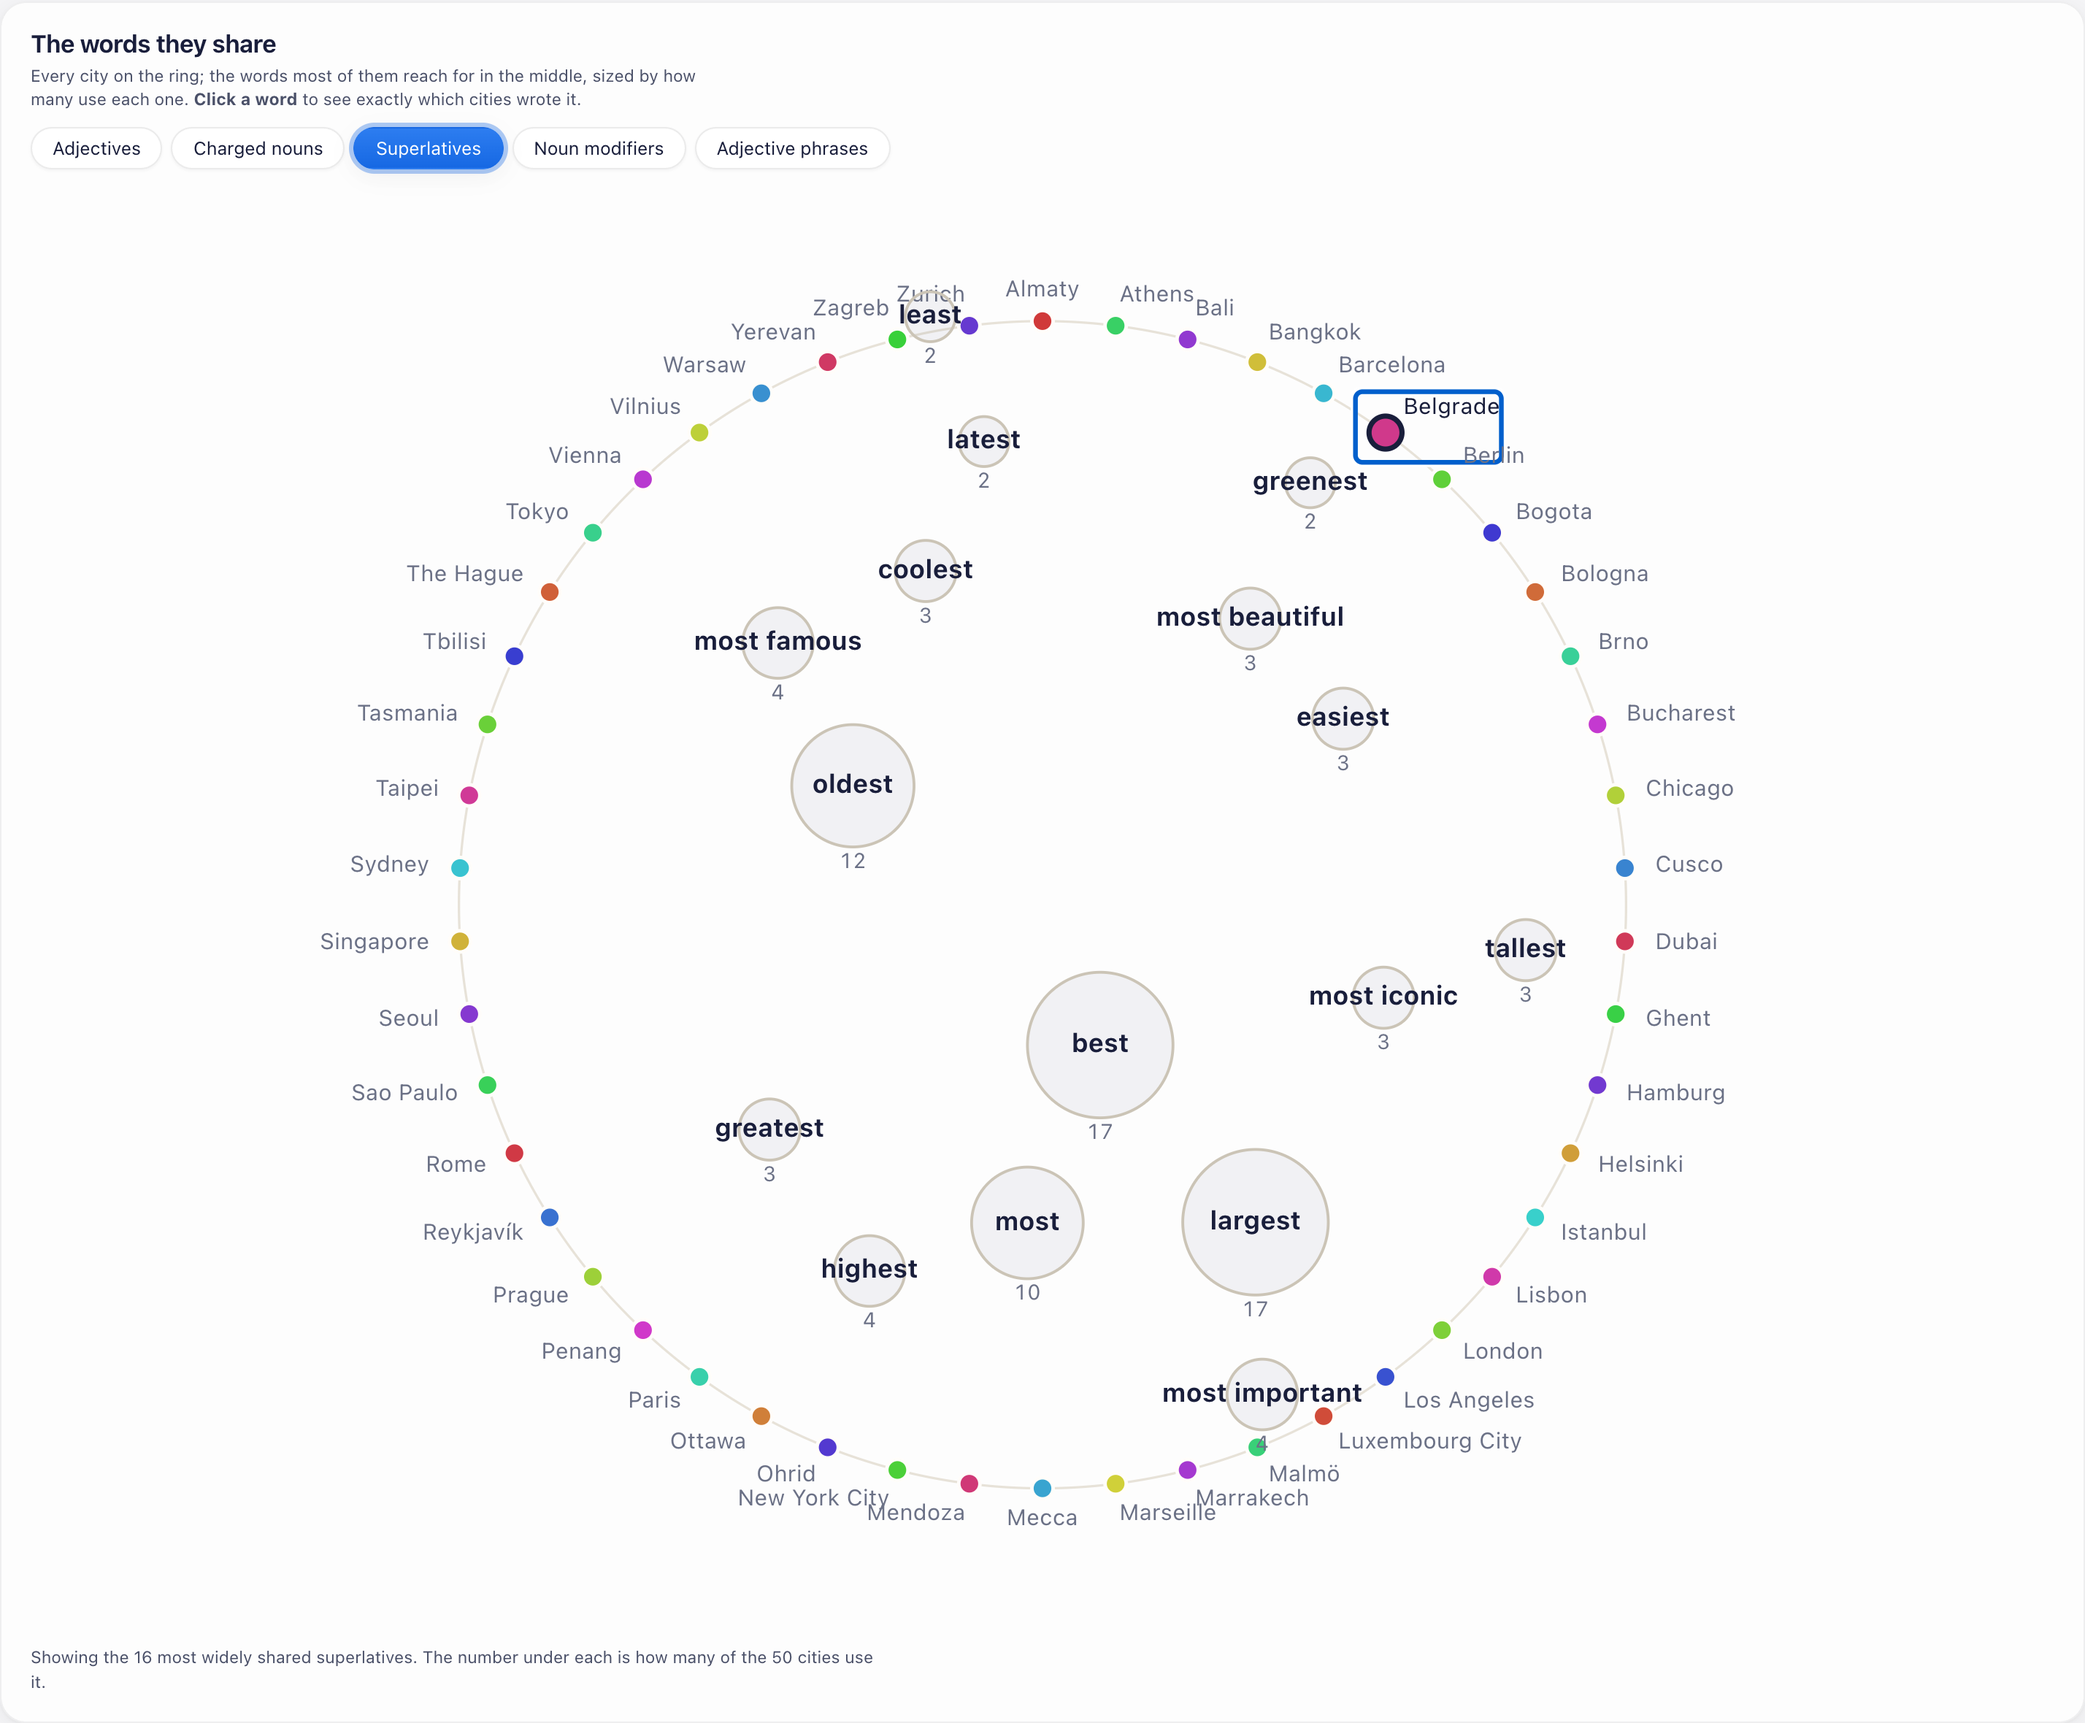
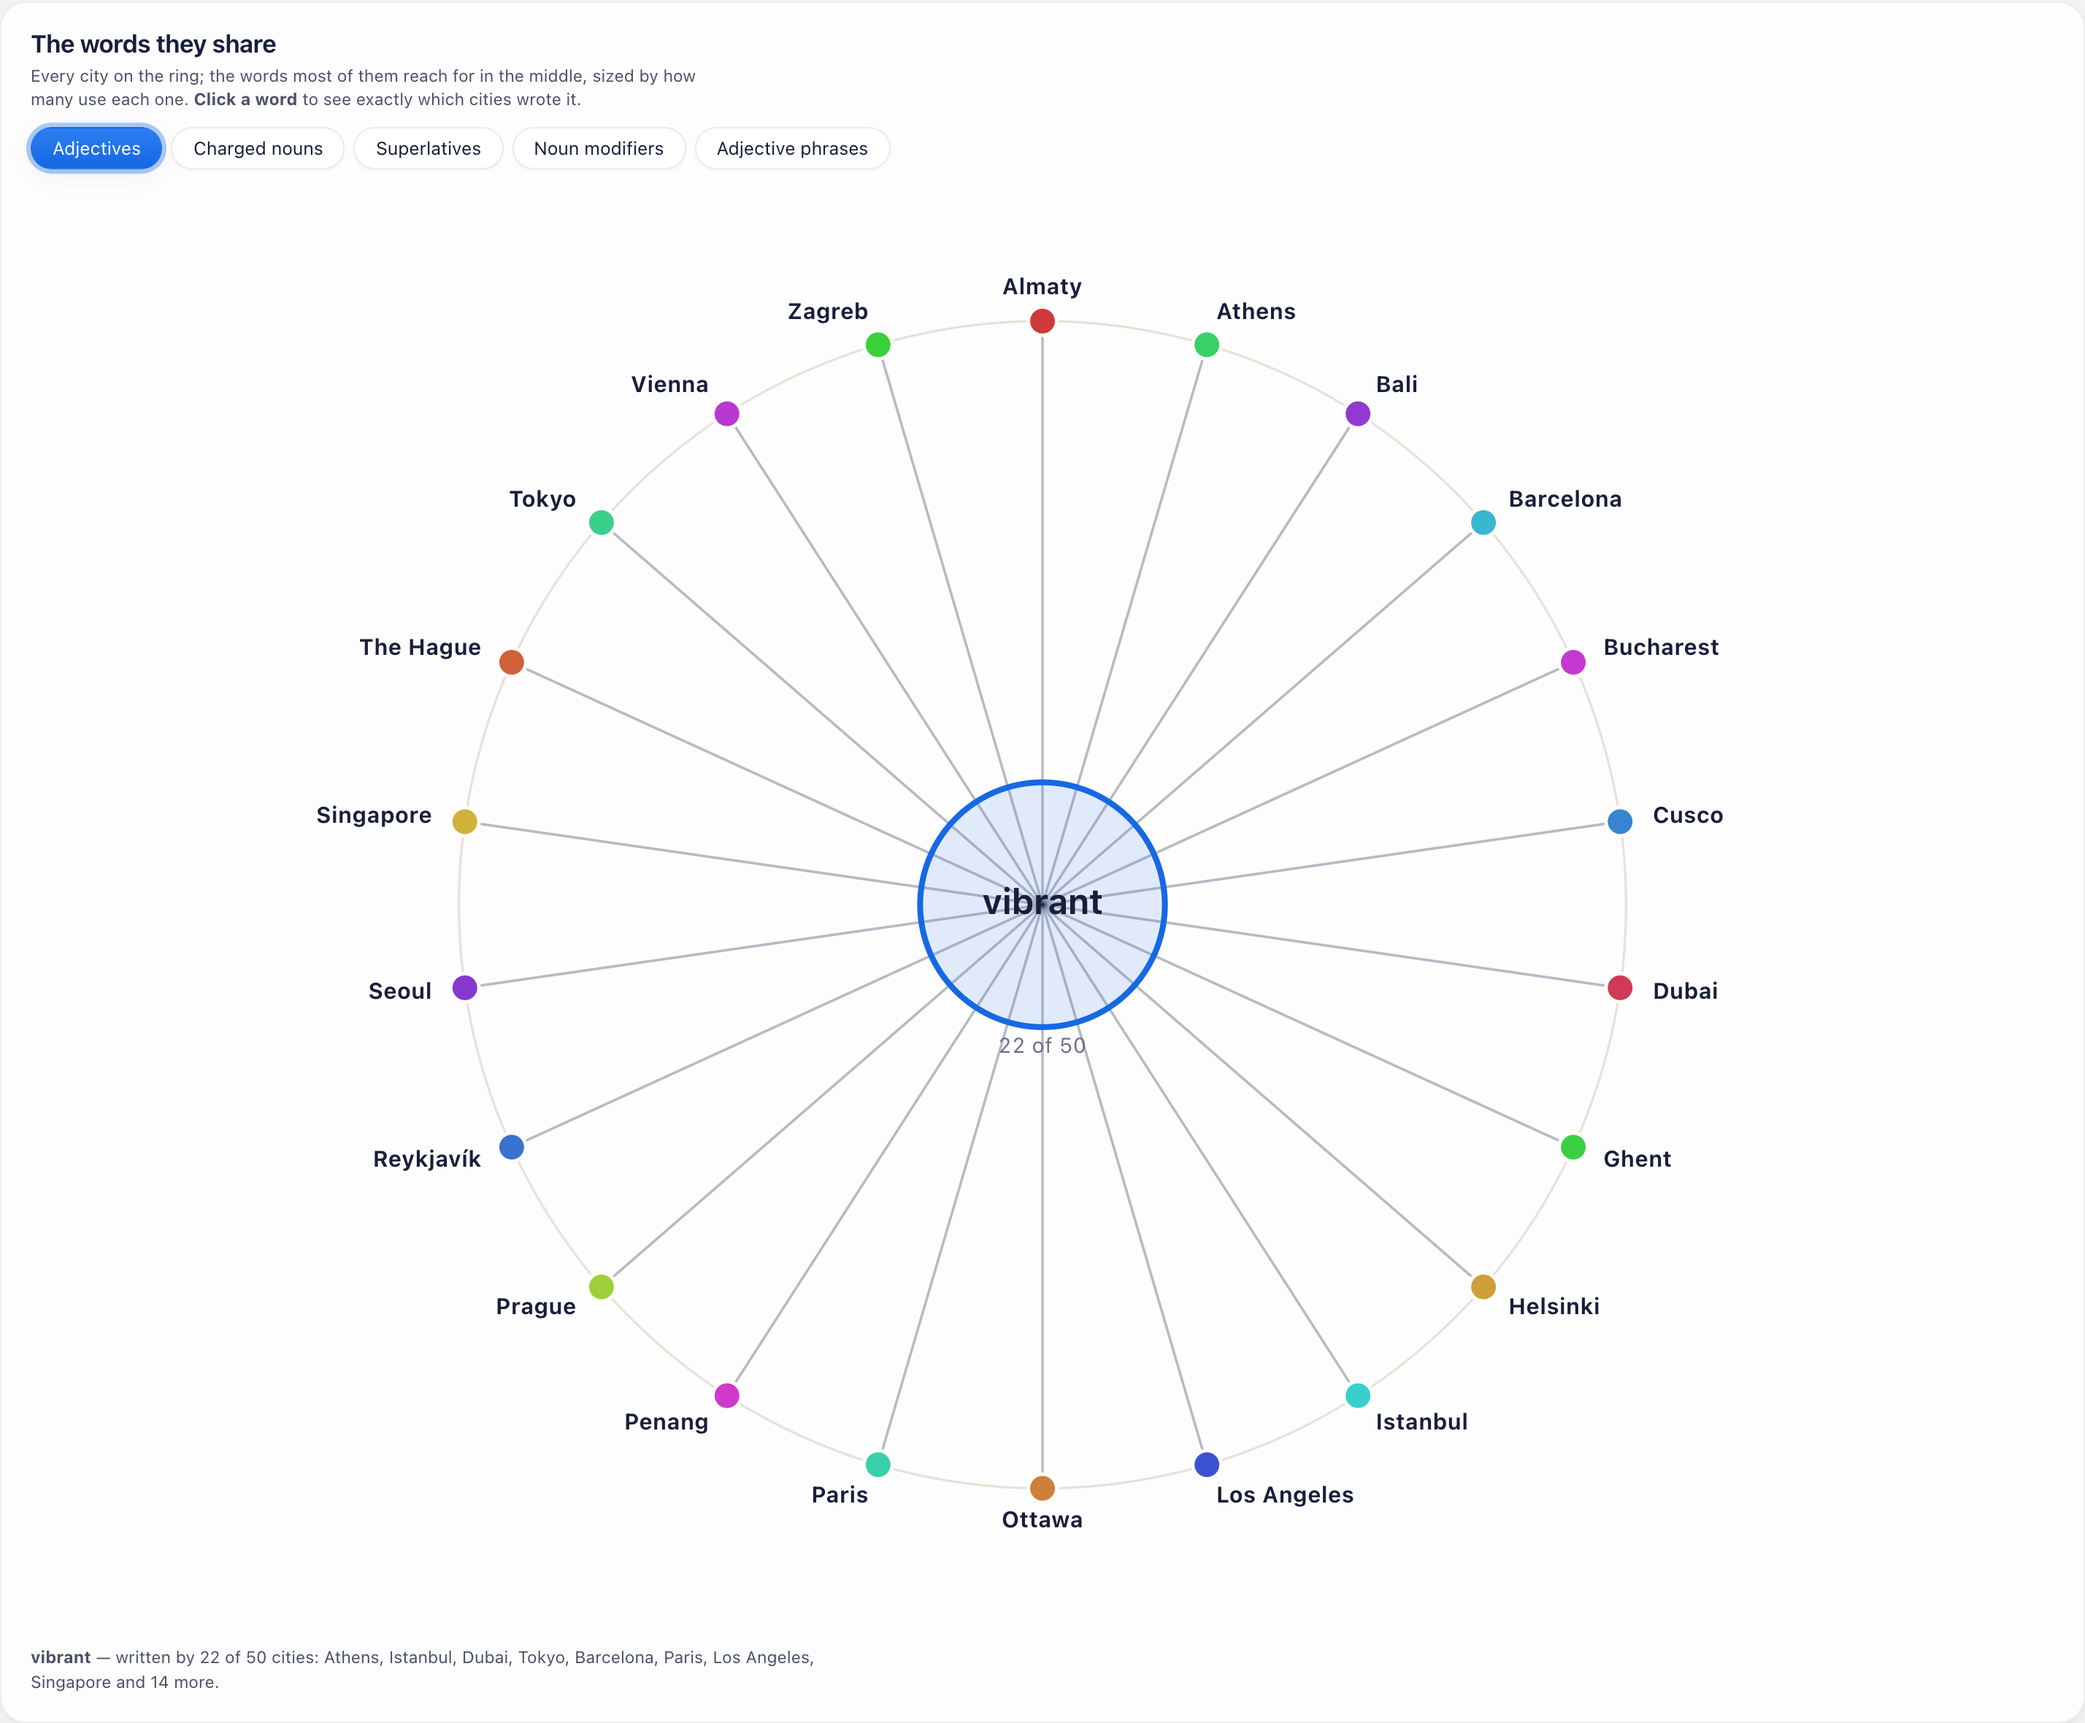
word graph: cities spawn in on click instead of all fifty at once
Fifty names on one ring collided badly, and most of them were noise
for any given word. At rest the graph now shows only the word hubs.
Click one and it slides to the middle, the others clear away, and just
the cities that use that word grow in around the full ring, staggered.

Spacing the subset over the whole circumference is what fixes the
overlap: 22 names have room where 50 did not. Measured 0 overlapping
labels, against a ring that was unreadable at the top and bottom.

Clicking the centre word puts everything back.

Also: the focus ring drew a rectangle around round nodes. The reset
needed :focus rather than :focus-visible, since Chrome rings a
tabindex element on mouse click too; the keyboard ring on the node
itself is unchanged.

Idle 0 cities / 16 hubs / 0 spokes; 'vibrant' -> 22 cities, 22 spokes,
1 hub. 40/40 interaction checks pass, no console errors.

diff --git a/src/lib/WordGraph.svelte b/src/lib/WordGraph.svelte
@@ -15,6 +15,17 @@
    * that goes in a report.
    */
   import { WORD_POOLS, wordIndex } from './data.js';
+  import { cubicOut } from 'svelte/easing';
+
+  /** Grow a node out of the centre of the graph as it appears. */
+  function spawn(node, { delay = 0, duration = 320 } = {}) {
+    return {
+      delay,
+      duration,
+      easing: cubicOut,
+      css: (t) => `opacity:${t}; transform: scale(${0.35 + 0.65 * t}); transform-origin:${CX}px ${CY}px;`
+    };
+  }
 
   let {
     cities = [],
@@ -104,9 +115,31 @@
   });
 
   let active = $derived(hubs.find((h) => h.word === selectedWord) ?? null);
-  let litCities = $derived(new Set(active ? active.used : []));
 
-  const nodeAt = (name) => ring.find((n) => n.city.city === name);
+  let byName = $derived(new Map(cities.map((c) => [c.city, c])));
+
+  /**
+   * When a word is chosen, only its cities are drawn — and they are spaced
+   * evenly around the whole ring rather than left in their fifty-city slots.
+   * With all fifty on screen the names collided badly; a subset given the
+   * full circumference never does.
+   */
+  let spokeCities = $derived.by(() => {
+    if (!active) return [];
+    const used = active.used
+      .map((n) => byName.get(n))
+      .filter(Boolean)
+      .sort((a, b) => a.city.localeCompare(b.city));
+    return used.map((c, i) => {
+      const angle = (i / used.length) * Math.PI * 2 - Math.PI / 2;
+      return {
+        city: c,
+        angle,
+        x: CX + Math.cos(angle) * RING,
+        y: CY + Math.sin(angle) * RING
+      };
+    });
+  });
 </script>
 
 <figure>
@@ -129,66 +162,65 @@
 
   <svg viewBox="0 0 {W} {H}" role="img"
        aria-label="Shared {pool.label.toLowerCase()} across {cities.length} cities">
-    <circle cx={CX} cy={CY} r={RING} class="ring" />
+    <circle cx={CX} cy={CY} r={RING} class="ring" class:live={!!active} />
 
     {#if active}
-      {#each active.used as name (name)}
-        {@const n = nodeAt(name)}
-        {#if n}
-          <line class="spoke" x1={active.x} y1={active.y} x2={n.x} y2={n.y} />
-        {/if}
+      <!-- Only this word's cities, spaced evenly around the whole ring, each
+           one growing out of the middle as it arrives. -->
+      {#each spokeCities as n, i (n.city.city)}
+        <g in:spawn={{ delay: i * 14 }}>
+          <line class="spoke" x1={CX} y1={CY} x2={n.x} y2={n.y} />
+        </g>
+      {/each}
+
+      {#each spokeCities as n, i (n.city.city)}
+        <g
+          class="citynode"
+          in:spawn={{ delay: 60 + i * 14 }}
+          role="button"
+          tabindex="0"
+          aria-label="{n.city.city}, uses {active.word}"
+          onclick={() => onpickcity(n.city.city)}
+          onkeydown={(e) => {
+            if (e.key === 'Enter' || e.key === ' ') { e.preventDefault(); onpickcity(n.city.city); }
+          }}
+          onmouseenter={() => onhovercity(n.city.city)}
+          onmouseleave={() => onhovercity(null)}
+          onfocus={() => onhovercity(n.city.city)}
+          onblur={() => onhovercity(null)}
+        >
+          <!-- A 6px dot is too small to hit; this invisible disc gives the
+               city a real target without changing how it looks. -->
+          <circle class="hit" cx={n.x} cy={n.y} r="14" />
+          <circle
+            cx={n.x} cy={n.y}
+            r={picks.includes(n.city.city) ? 8 : 6}
+            class="citydot"
+            class:gem={n.city.category === 'hidden'}
+            class:picked={picks.includes(n.city.city)}
+            class:hovered={hoveredCity === n.city.city}
+            style={n.city.hue !== undefined ? `--dot-city: hsl(${n.city.hue} 62% 52%);` : undefined}
+          ><title>{n.city.city}, {n.city.country}</title></circle>
+          <text
+            class="cityname lit"
+            x={n.x + Math.cos(n.angle) * 14}
+            y={n.y + Math.sin(n.angle) * 14}
+            text-anchor={Math.cos(n.angle) < -0.1 ? 'end' : Math.cos(n.angle) > 0.1 ? 'start' : 'middle'}
+            dominant-baseline="middle"
+          >{n.city.city}</text>
+        </g>
       {/each}
     {/if}
 
-    <!-- cities -->
-    {#each ring as n (n.city.city)}
-      {@const lit = litCities.has(n.city.city)}
-      {@const dim = !!active && !lit}
-      <g
-        class="citynode"
-        class:dim
-        role="button"
-        tabindex="0"
-        aria-label="{n.city.city}{lit ? ', uses this word' : ''}"
-        onclick={() => onpickcity(n.city.city)}
-        onkeydown={(e) => {
-          if (e.key === 'Enter' || e.key === ' ') { e.preventDefault(); onpickcity(n.city.city); }
-        }}
-        onmouseenter={() => onhovercity(n.city.city)}
-        onmouseleave={() => onhovercity(null)}
-        onfocus={() => onhovercity(n.city.city)}
-        onblur={() => onhovercity(null)}
-      >
-        <!-- A 4.5px dot is far too small to hit; this invisible disc gives
-             the city a real target without changing how it looks. -->
-        <circle class="hit" cx={n.x} cy={n.y} r="13" />
-        <circle
-          cx={n.x} cy={n.y}
-          r={picks.includes(n.city.city) ? 7 : lit ? 6 : 4.5}
-          class="citydot"
-          class:gem={n.city.category === 'hidden'}
-          class:picked={picks.includes(n.city.city)}
-          class:hovered={hoveredCity === n.city.city}
-          style={n.city.hue !== undefined ? `--dot-city: hsl(${n.city.hue} 62% 52%);` : undefined}
-        ><title>{n.city.city}, {n.city.country}</title></circle>
-        <text
-          class="cityname"
-          class:lit
-          x={n.x + Math.cos(n.angle) * 13}
-          y={n.y + Math.sin(n.angle) * 13}
-          text-anchor={Math.cos(n.angle) < -0.1 ? 'end' : Math.cos(n.angle) > 0.1 ? 'start' : 'middle'}
-          dominant-baseline="middle"
-        >{n.city.city}</text>
-      </g>
-    {/each}
-
     <!-- word hubs -->
-    {#each hubs as h (h.word)}
+    {#each active ? [active] : hubs as h (h.word)}
       {@const on = selectedWord === h.word}
+      {@const hx = on ? CX : h.x}
+      {@const hy = on ? CY : h.y}
+      {@const hr = on ? Math.max(h.r, 52) : h.r}
       <g
         class="hub"
         class:on
-        class:faded={!!active && !on}
         role="button"
         tabindex="0"
         aria-pressed={on}
@@ -201,11 +233,13 @@
           }
         }}
       >
-        <circle cx={h.x} cy={h.y} r={h.r} class="hubdot" />
-        <text class="hubword" x={h.x} y={h.y} text-anchor="middle" dominant-baseline="middle">
+        <circle cx={hx} cy={hy} r={hr} class="hubdot" />
+        <text class="hubword" x={hx} y={hy} text-anchor="middle" dominant-baseline="middle">
           {h.word}
         </text>
-        <text class="hubcount" x={h.x} y={h.y + h.r + 9} text-anchor="middle">{h.count}</text>
+        <text class="hubcount" x={hx} y={hy + hr + 11} text-anchor="middle">
+          {h.count} of {cities.length}
+        </text>
       </g>
     {/each}
   </svg>
@@ -218,7 +252,8 @@
         : ''}.
     {:else}
       Showing the {hubs.length} most widely shared {pool.label.toLowerCase()}.
-      The number under each is how many of the {cities.length} cities use it.
+      The number under each is how many of the {cities.length} cities use it —
+      click one to bring those cities in.
     {/if}
   </p>
 </figure>
@@ -229,7 +264,8 @@
   .pools { display: flex; flex-wrap: wrap; gap: 6px; margin-top: 10px; }
   svg { width: 100%; height: auto; display: block; margin-top: 4px; }
 
-  .ring { fill: none; stroke: var(--gridline); stroke-width: 1; }
+  .ring { fill: none; stroke: var(--gridline); stroke-width: 1; opacity: 0.45; transition: opacity 240ms; }
+  .ring.live { opacity: 1; }
 
   .spoke {
     stroke: var(--text-primary);
@@ -240,7 +276,6 @@
 
   .citynode { cursor: pointer; }
   .hit { fill: transparent; }
-  .citynode.dim { opacity: 0.28; }
   .citydot {
     fill: var(--dot-city, var(--big));
     stroke: var(--surface-1);
@@ -258,11 +293,10 @@
   .citynode:hover .cityname { fill: var(--text-primary); }
   /* The default focus box draws a rectangle around a round node; ring the
      node itself instead. */
-  .citynode:focus-visible { outline: none; }
+  .citynode:focus { outline: none; }
   .citynode:focus-visible .citydot { stroke: var(--text-primary); stroke-width: 2.5; }
 
   .hub { cursor: pointer; }
-  .hub.faded { opacity: 0.3; }
   .hubdot {
     fill: var(--wash);
     stroke: var(--axis);
@@ -270,9 +304,18 @@
     transition: fill 120ms, stroke 120ms;
   }
   .hub:hover .hubdot { stroke: var(--text-primary); }
-  .hub:focus-visible { outline: none; }
+  .hub:focus { outline: none; }
   .hub:focus-visible .hubdot { stroke: var(--text-primary); stroke-width: 2.5; }
-  .hub.on .hubdot { fill: var(--big-soft); stroke: var(--big); stroke-width: 2; }
+  .hub.on .hubdot { fill: var(--big-soft); stroke: var(--big); stroke-width: 2.5; }
+  .hub .hubdot, .hub .hubword, .hub .hubcount {
+    transition: cx 320ms cubic-bezier(.2,.7,.3,1), cy 320ms cubic-bezier(.2,.7,.3,1),
+                r 320ms cubic-bezier(.2,.7,.3,1), x 320ms cubic-bezier(.2,.7,.3,1),
+                y 320ms cubic-bezier(.2,.7,.3,1), font-size 240ms;
+  }
+  @media (prefers-reduced-motion: reduce) {
+    .hub .hubdot, .hub .hubword, .hub .hubcount { transition: none; }
+  }
+  .hub.on .hubword { font-size: 15px; }
   .hubword {
     font-size: 11px;
     font-weight: 650;
